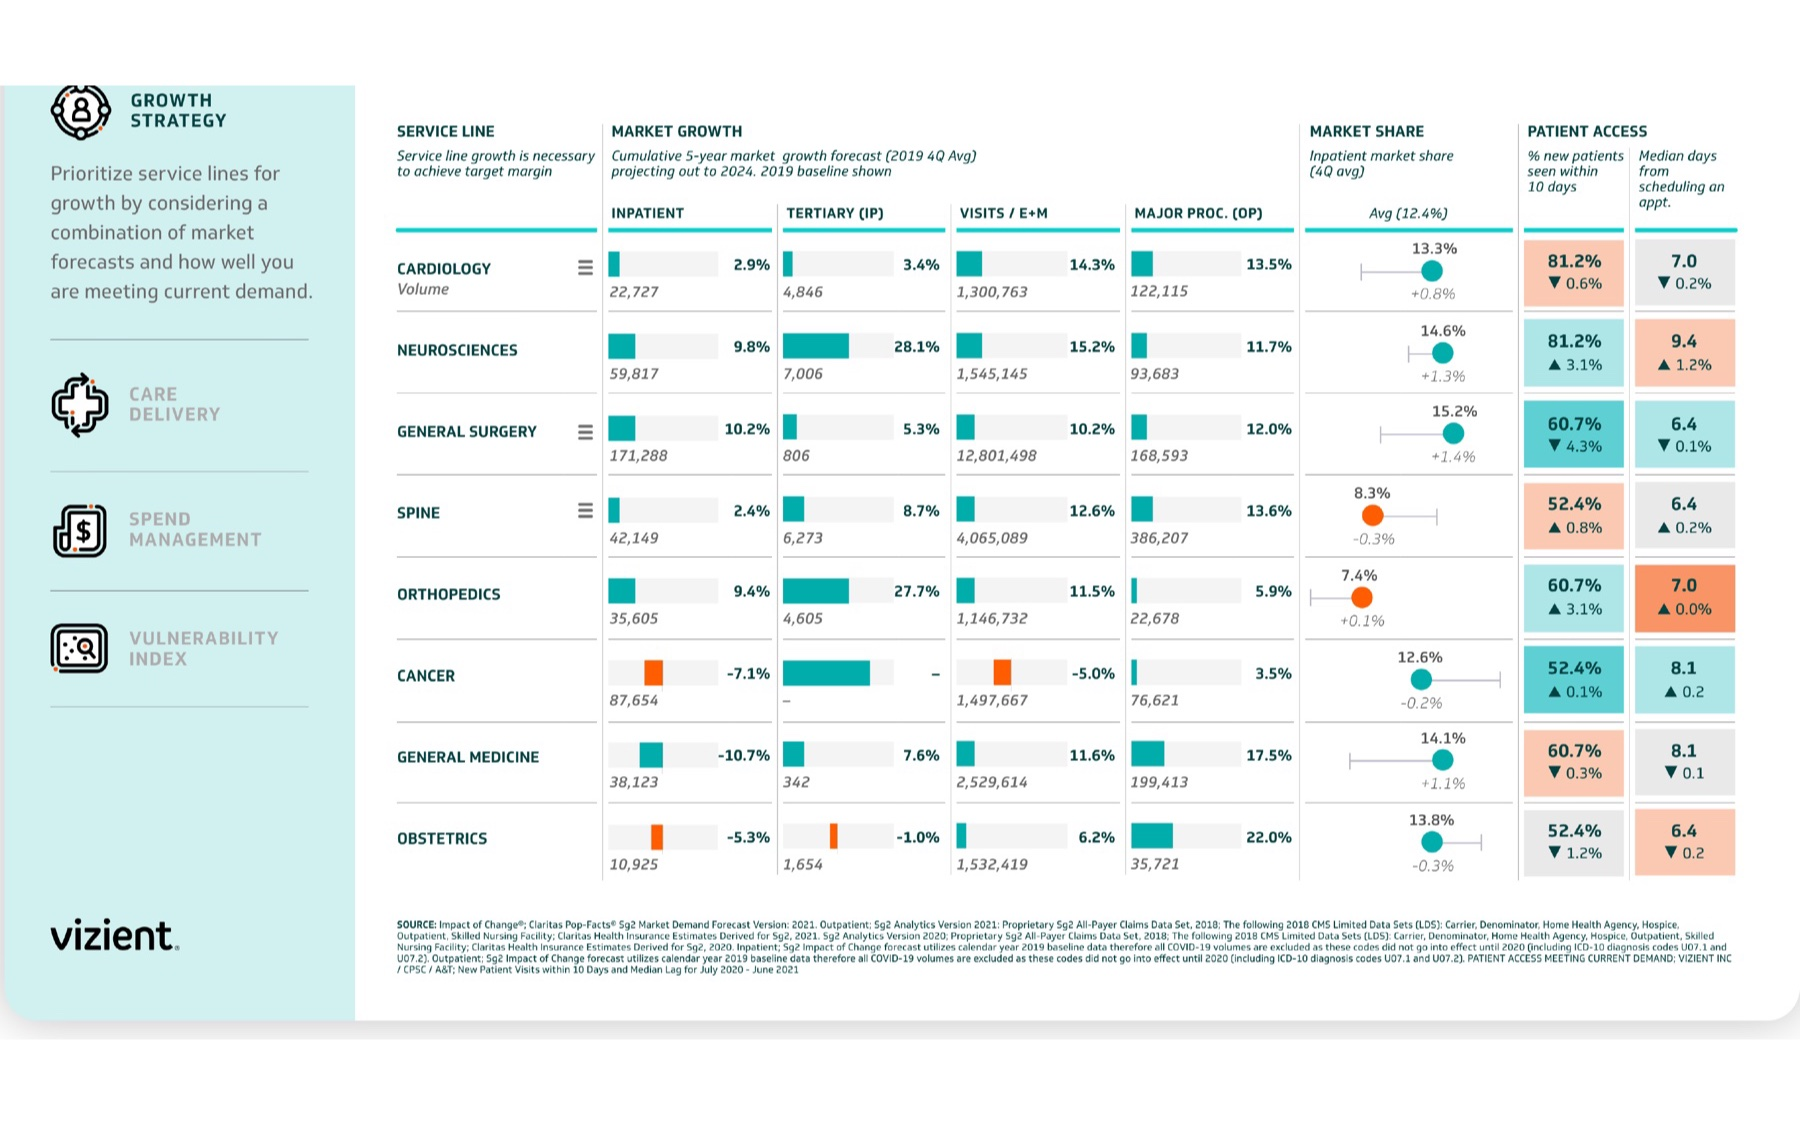
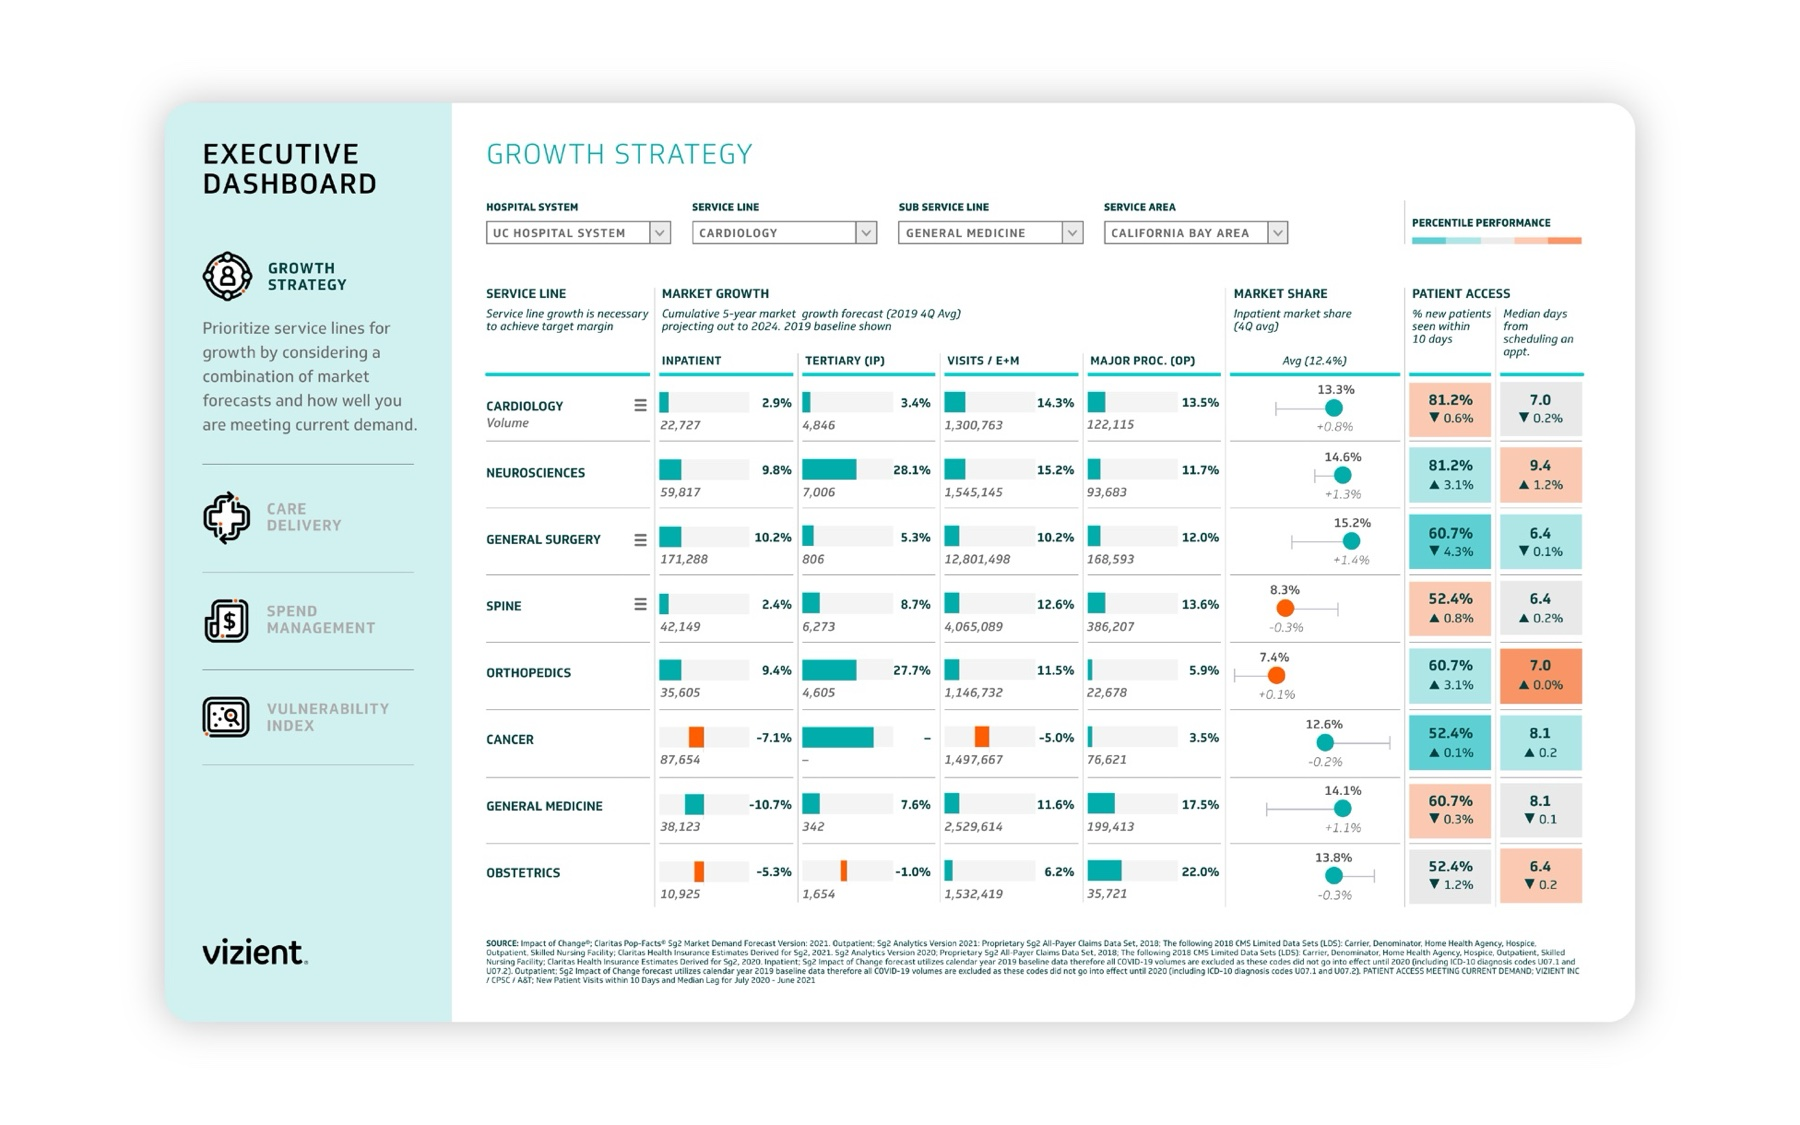
Healthcare page: full-width measure, and the tile ships whole
- Prose on the healthcare study widens from the 34rem site default to
  52rem, the widest the narrow shell allows. Line height goes to 1.72
  to match: past ~75 characters the eye needs the extra leading to find
  its way back to the left edge. Scoped to this page only.
- Homepage healthcare tile is now the uncropped frame. The hospital
  system and market area in the filter row are invented, so the band I
  had cut out goes back in, and the Executive Dashboard title with it.

diff --git a/index.html b/index.html
@@ -115,11 +115,10 @@
     <div class="tiles tiles--3" data-reveal-group data-reveal-step="50">
       <article class="tile" data-reveal>
       <div class="tile__thumb">
-        <!-- Sharp, by request. Cropped above the table before it reached this
-             folder: the filter row named a client health system and its market
-             geography, and that band is not inside this file. Padded to 16:10
-             on white so the card fills the frame without a second crop. -->
-        <img src="assets/img/tools/healthcare-tile.jpg?v=20260817a"
+        <!-- Sharp and whole: the hospital system and market area in the filter
+             row are invented, so nothing here needed cropping out. Padded to
+             16:10 on the sheet's own white so the card fills the frame. -->
+        <img src="assets/img/tools/healthcare-tile.jpg?v=20260817b"
              width="1800" height="1125" loading="lazy" decoding="async"
              alt="An executive growth-strategy dashboard: eight service lines down the left, five-year market growth forecasts as small bar charts, market share as dot plots, and patient-access measures heat-mapped in teal and orange.">
       </div>
